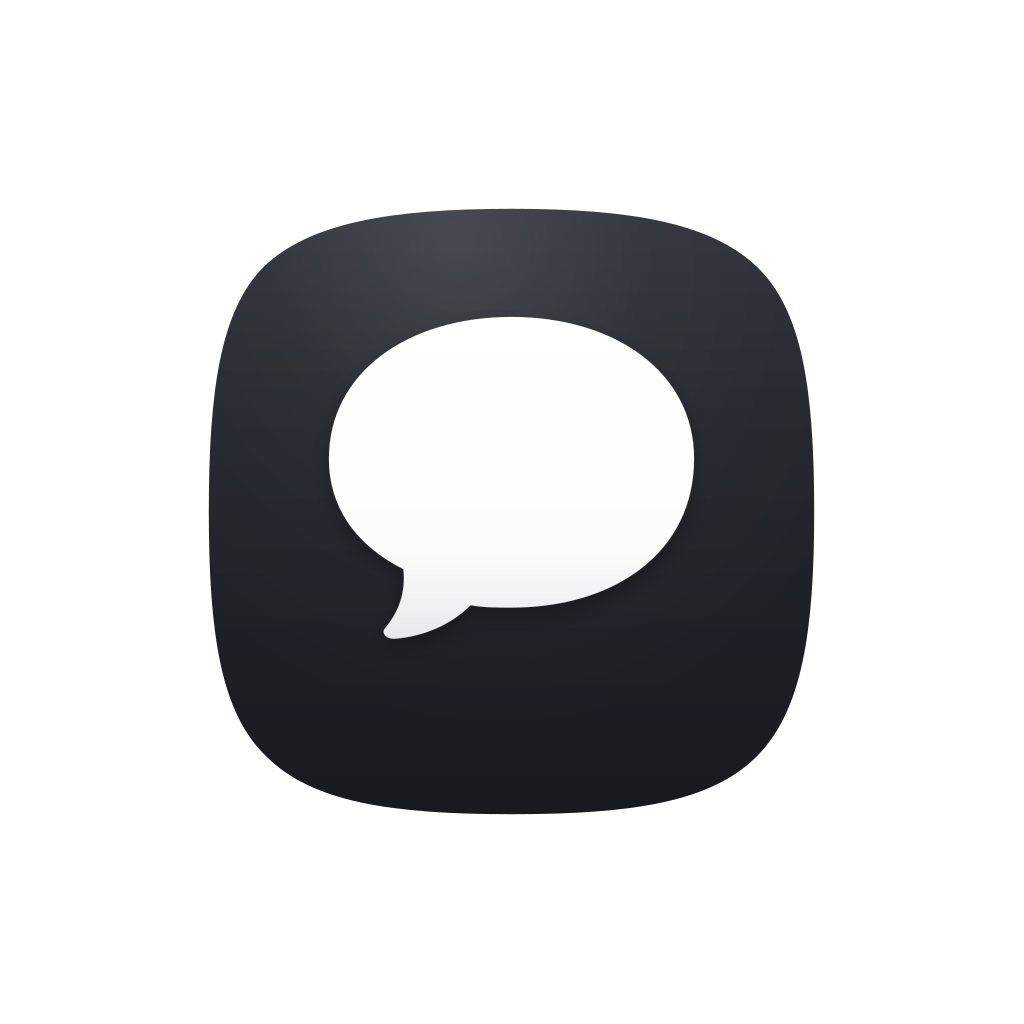
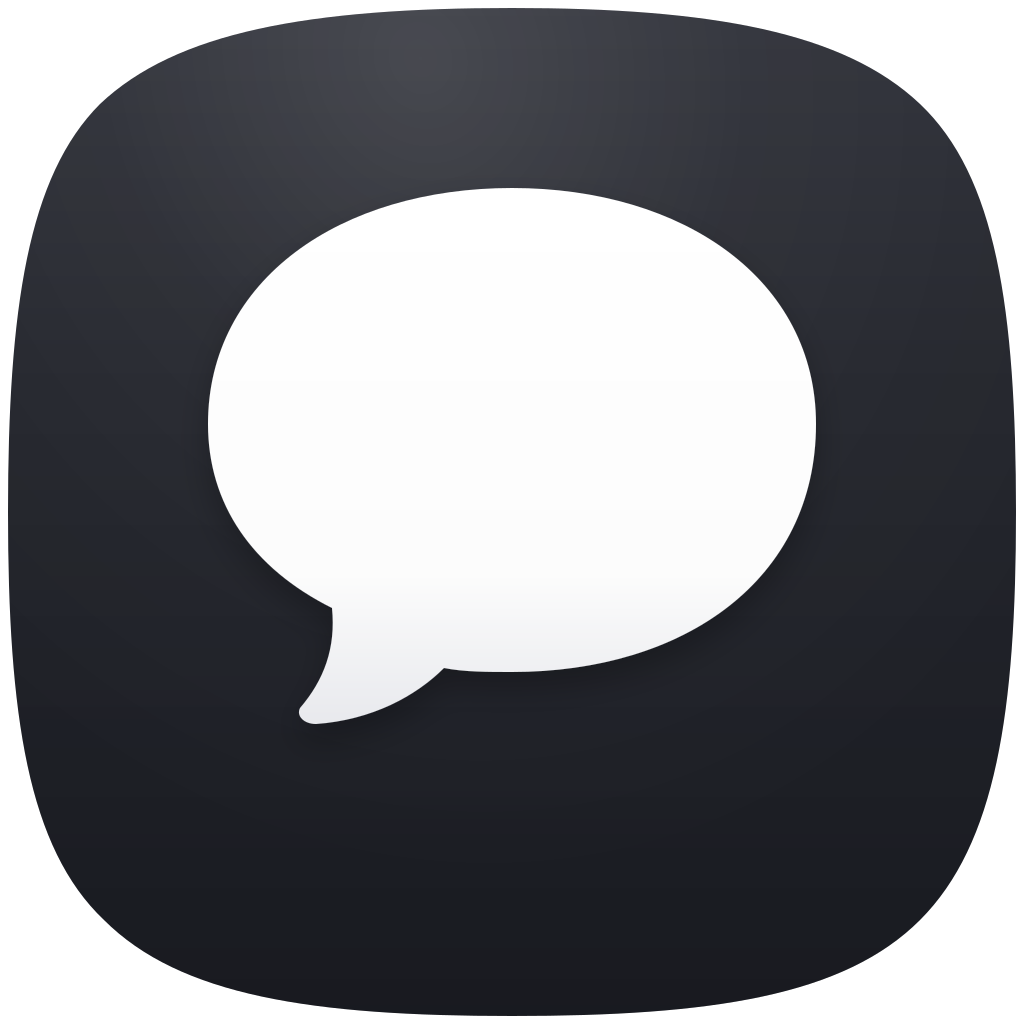
Sync expo brand colors (#372)
* Sync expo brand colors with web app's white/black accent

Replace old blue (#0070F3) accent tokens with Vercel-style white/black
scheme to match the dark premium mark logo update from commit be2e11d.

Light mode: primary/accent/tint → #0A0A0A (near-black)
Dark mode: primary/accent/tint → #FFFFFF (white), foreground inverted

* Regenerate expo PNG assets with dark premium mark logo

Regenerate icon, adaptive icon, splash, and brand PNGs from the new
dark gradient SVG to replace the old blue logo assets.

diff --git a/expo-app-standalone 3/constants/colors.ts b/expo-app-standalone 3/constants/colors.ts
@@ -7,7 +7,7 @@ const colors = {
   light: {
     // Legacy alias
     text: '#0A0A0A',
-    tint: '#0070F3',
+    tint: '#0A0A0A',
 
     // Core surfaces
     background: '#FAFAFA',
@@ -18,10 +18,10 @@ const colors = {
     cardForeground: '#0A0A0A',
 
     // Primary action color — buttons, links, active states
-    primary: '#0070F3',
+    primary: '#0A0A0A',
     primaryForeground: '#FFFFFF',
-    primaryHover: '#0060D1',
-    primarySoft: '#f0f8ff',
+    primaryHover: '#333333',
+    primarySoft: '#EBEBEB',
 
     // Secondary / less-emphasis surfaces
     secondary: '#F5F5F5',
@@ -33,9 +33,9 @@ const colors = {
     foregroundSoft: '#8a8a8a',
 
     // Accent (same as primary in light mode)
-    accent: '#0070F3',
+    accent: '#0A0A0A',
     accentForeground: '#FFFFFF',
-    accentSoft: '#f0f8ff',
+    accentSoft: '#EBEBEB',
 
     // Destructive / error states
     destructive: '#ef4444',
@@ -56,7 +56,7 @@ const colors = {
 
   dark: {
     text: '#EDEDED',
-    tint: '#52a8ff',
+    tint: '#FFFFFF',
 
     background: '#09090B',
     foreground: '#EDEDED',
@@ -64,10 +64,10 @@ const colors = {
     card: '#121214',
     cardForeground: '#EDEDED',
 
-    primary: '#0070F3',
-    primaryForeground: '#FFFFFF',
-    primaryHover: '#0060D1',
-    primarySoft: '#18243D',
+    primary: '#FFFFFF',
+    primaryForeground: '#000000',
+    primaryHover: '#CCCCCC',
+    primarySoft: '#1F1F23',
 
     secondary: '#1A1A1E',
     secondaryForeground: '#EDEDED',
@@ -76,9 +76,9 @@ const colors = {
     mutedForeground: '#525252',
     foregroundSoft: '#888888',
 
-    accent: '#0070F3',
-    accentForeground: '#FFFFFF',
-    accentSoft: '#18243D',
+    accent: '#FFFFFF',
+    accentForeground: '#000000',
+    accentSoft: '#1F1F23',
 
     destructive: '#ef4444',
     destructiveForeground: '#FFFFFF',
